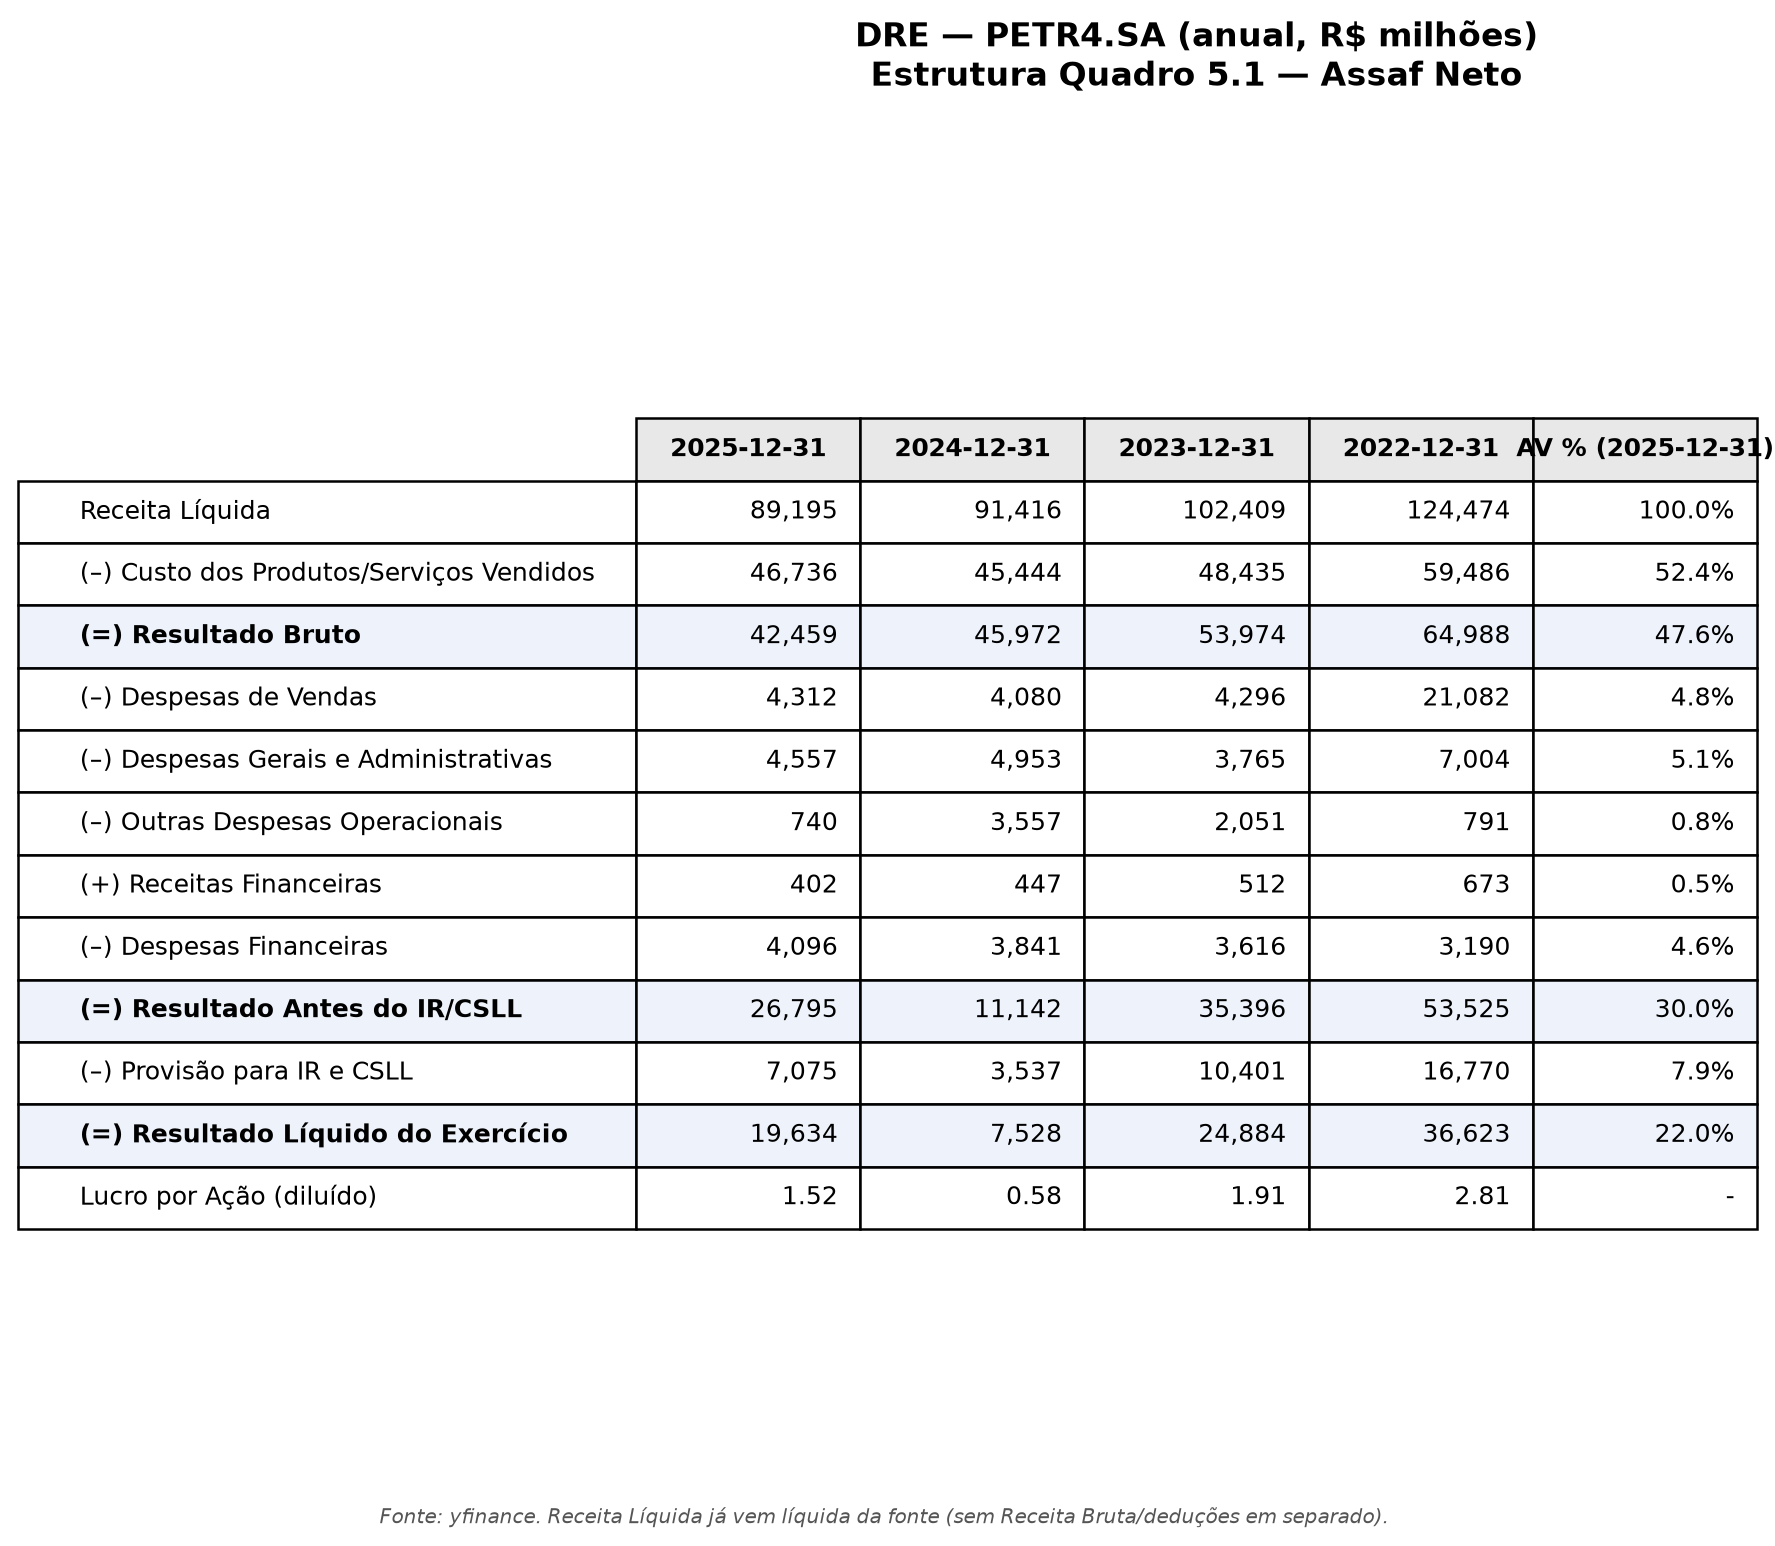
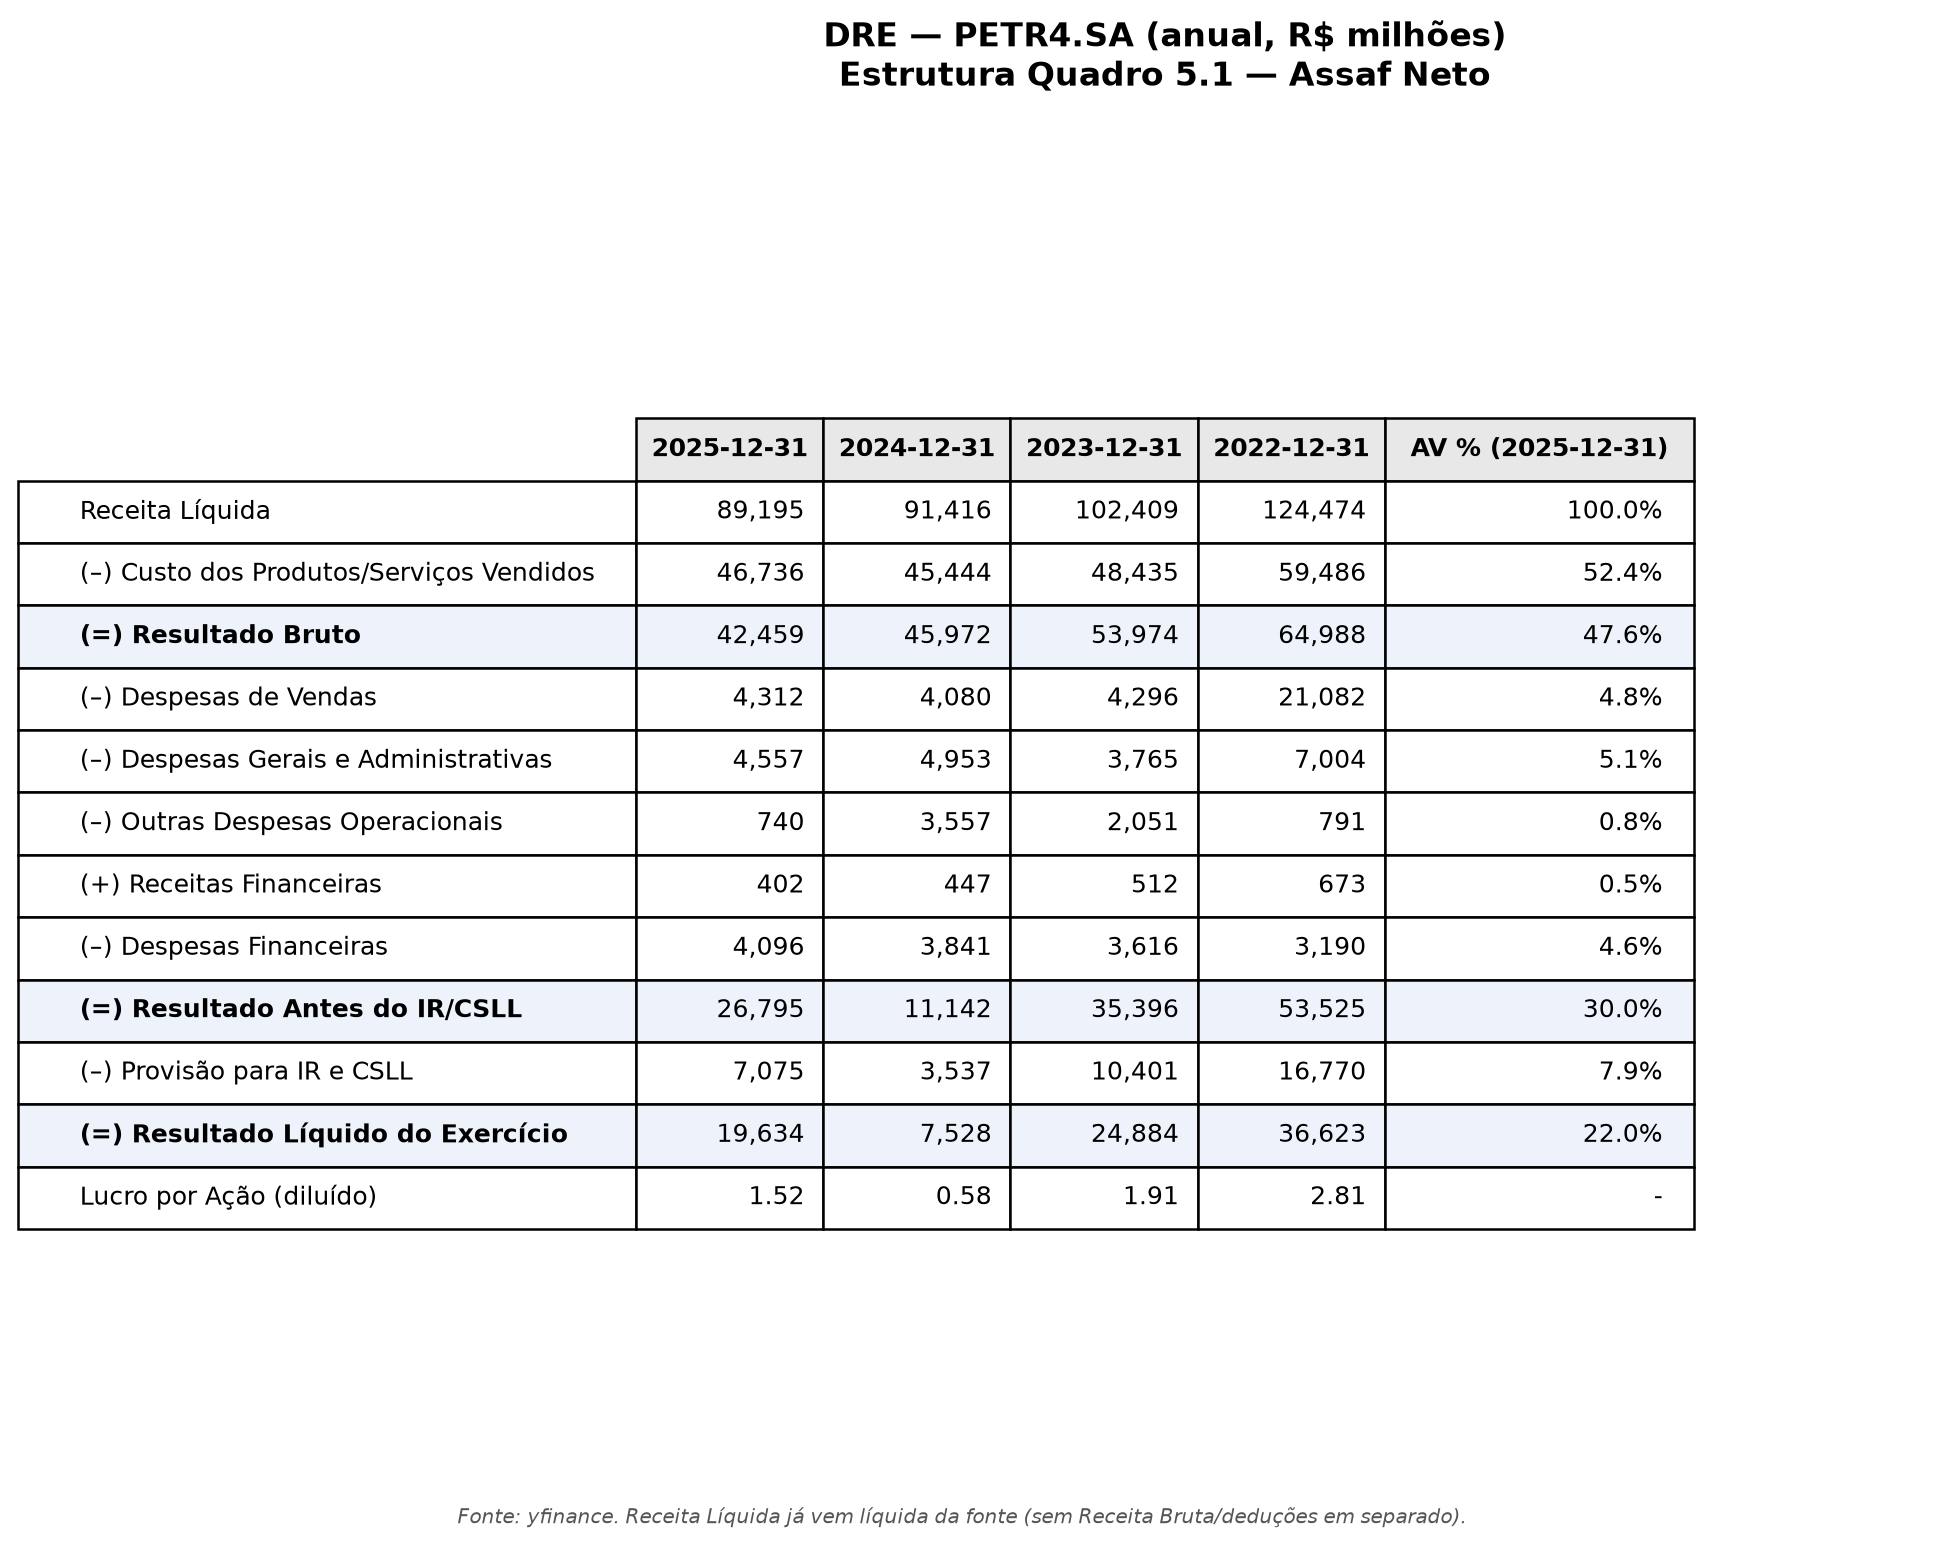
Auto-ajusta largura das colunas na imagem da DRE

diff --git a/src/dre_report.py b/src/dre_report.py
@@ -57,7 +57,9 @@ def renderizar(ticker: str, periodo: str = "anual") -> str:
             row.append(_fmt(tabela.loc[idx, col], eh_av, eh_eps and not eh_av))
         linhas_texto.append(row)
 
-    fig, ax = plt.subplots(figsize=(10, 0.55 * len(tabela.index) + 2))
+    maior_rotulo = max(len(str(i)) for i in tabela.index)
+    largura = maior_rotulo * 0.11 + len(tabela.columns) * 1.35
+    fig, ax = plt.subplots(figsize=(largura, 0.55 * len(tabela.index) + 2))
     ax.axis("off")
     col_labels = [str(c).replace(" 00:00:00", "") for c in tabela.columns]
     tab = ax.table(
@@ -69,6 +71,7 @@ def renderizar(ticker: str, periodo: str = "anual") -> str:
     )
     tab.auto_set_font_size(False)
     tab.set_fontsize(10)
+    tab.auto_set_column_width(col=list(range(-1, len(col_labels))))
     tab.scale(1, 1.8)
 
     for (row, col), cell in tab.get_celld().items():
